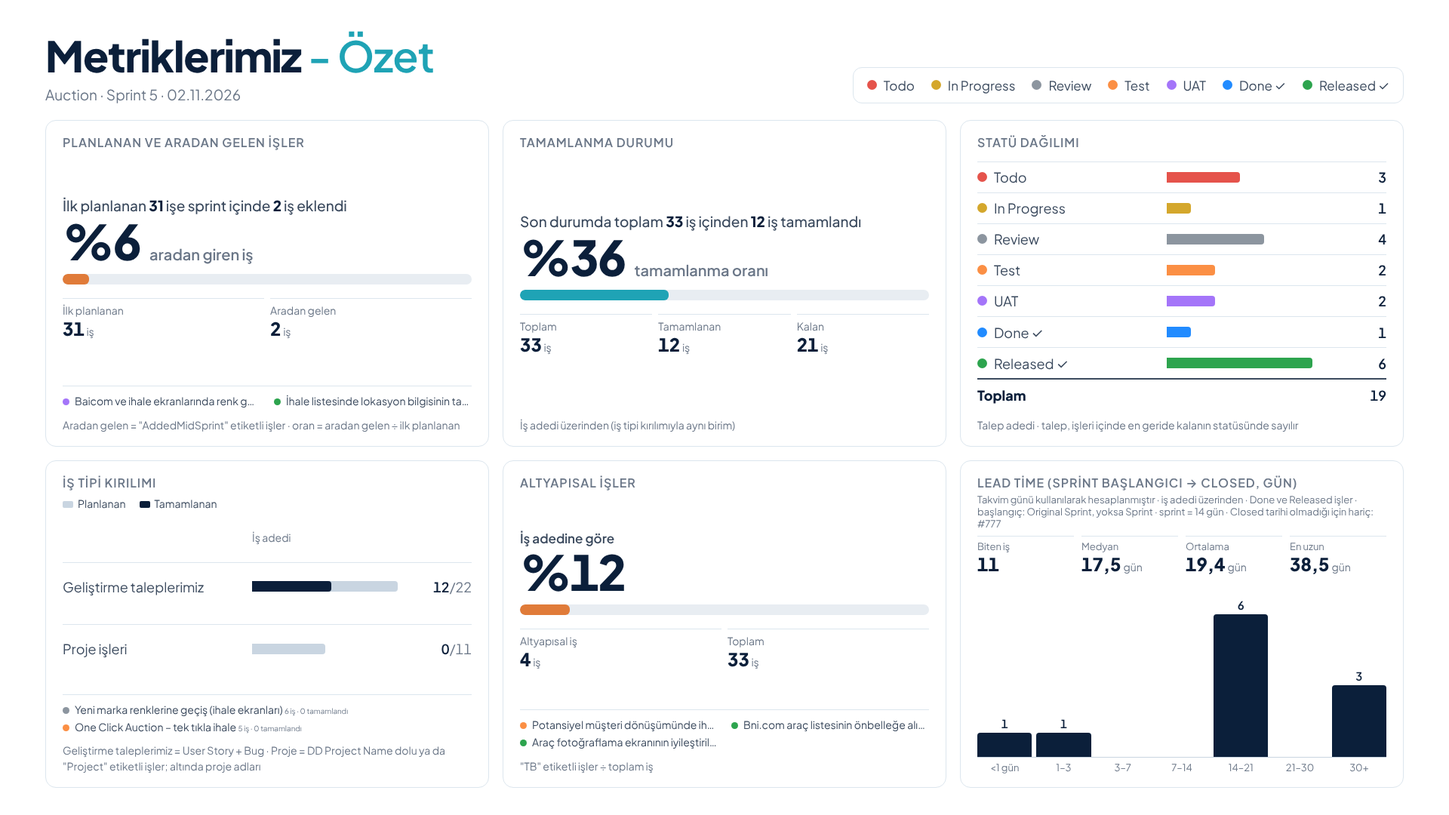
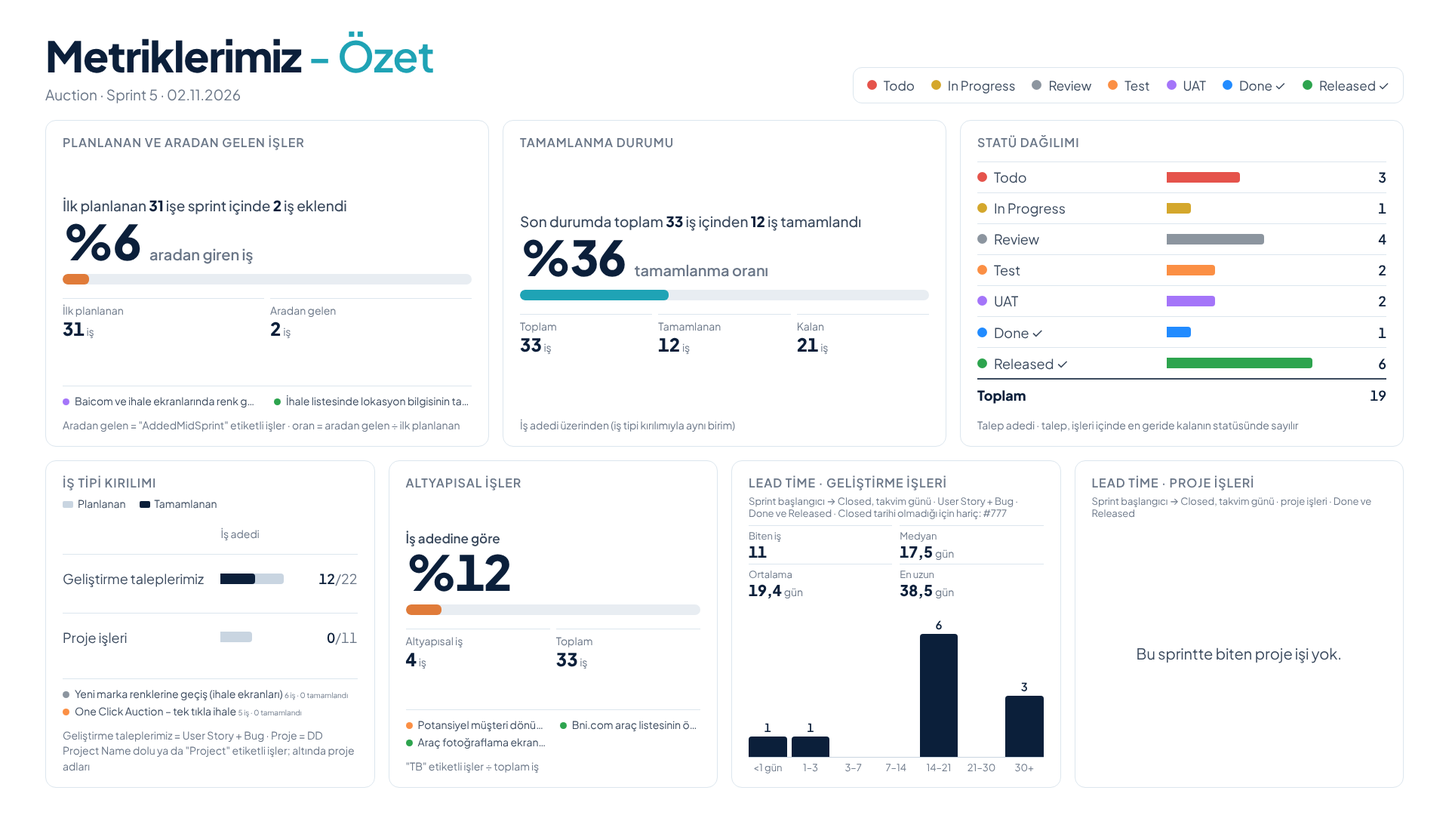
Lead time split: development vs project work; combined slides show development only
Claude-Session: https://claude.ai/code/session_014SYUQQBmb2NC56QaszpaqB

diff --git a/sunum/auction-sprint4-5-2026-11-02/auction-slaytlar.html b/sunum/auction-sprint4-5-2026-11-02/auction-slaytlar.html
@@ -58,6 +58,12 @@ h1 span { color:var(--accent); font-weight:600; }
 .story .clabel b { font-weight:800; color:var(--ink); }
 .names.one { columns:1; }
 .panel.span2 { grid-column:span 2; }
+.grid.g7 { grid-template-columns:repeat(12, minmax(0,1fr)); }
+.grid.g7 > .panel { grid-column:span 4; }
+.grid.g7 > .panel:nth-child(n+4) { grid-column:span 3; }
+.grid.g7 .lt .lstats { grid-template-columns:repeat(2,1fr); gap:4px 10px; }
+.grid.g7 .lt .lstats b { font-size:20px; }
+.grid.g7 .lt .lsub { margin-top:-4px; }
 .srows { display:flex; flex-direction:column; justify-content:space-evenly; flex:0 0 auto; gap:6px; }
 .srow { display:grid; grid-template-columns:150px 108px minmax(0,1fr); align-items:center; column-gap:12px;
   border-top:1px solid var(--rule); padding:8px 0; }
@@ -246,7 +252,7 @@ Released · Toplu Ekspertiz Sıralama Fonksiyonu Eklenmesi BE"><span class="dot"
     <div><h1>Metriklerimiz <span>- Özet</span></h1><div class="sub">Auction · Sprint 5 · 02.11.2026</div></div>
     <ul class="legend"><li><span class="dot" style="--c:#E5534B"></span>Todo</li><li><span class="dot" style="--c:#D4A72C"></span>In Progress</li><li><span class="dot" style="--c:#8C959F"></span>Review</li><li><span class="dot" style="--c:#FB8F44"></span>Test</li><li><span class="dot" style="--c:#A475F9"></span>UAT</li><li><span class="dot" style="--c:#218BFF"></span>Done ✓</li><li><span class="dot" style="--c:#2DA44E"></span>Released ✓</li></ul>
   </header>
-  <div class="grid">
+  <div class="grid g7">
     <div class="panel"><div class="ptitle">Planlanan ve aradan gelen işler</div><div class="comps r one">
 <div class="comp story">
   <div class="clabel">İlk planlanan <b>31</b> işe sprint içinde <b>2</b> iş eklendi</div>
@@ -268,7 +274,7 @@ Released · Toplu Ekspertiz Sıralama Fonksiyonu Eklenmesi BE"><span class="dot"
       <div class="pfoot">Talep adedi · talep, işleri içinde en geride kalanın statüsünde sayılır</div></div>
     <div class="panel"><div class="ptitle">İş tipi kırılımı</div>
       <div class="pkey"><span style="--k:var(--plan)">Planlanan</span><span style="--k:var(--ink)">Tamamlanan</span></div>
-      <div class="dual"><div class="dhead" style="grid-template-columns:minmax(0,1.25fr) minmax(0,1fr) 88px"><span></span><span>İş adedi</span><span></span></div><div class="drow" style="grid-template-columns:minmax(0,1.25fr) minmax(0,1fr) 88px"><div class="dl" title="Geliştirme taleplerimiz">Geliştirme taleplerimiz</div><div class="db" title="Geliştirme taleplerimiz · İş adedi: 22"><div class="tr" style="width:100.00%"></div><div class="fi" style="width:54.55%"></div></div><div class="dv">12<span>/22</span></div></div><div class="drow" style="grid-template-columns:minmax(0,1.25fr) minmax(0,1fr) 88px"><div class="dl" title="Proje işleri">Proje işleri</div><div class="db" title="Proje işleri · İş adedi: 11"><div class="tr" style="width:50.00%"></div><div class="fi" style="width:0.00%"></div></div><div class="dv">0<span>/11</span></div></div></div>
+      <div class="dual"><div class="dhead" style="grid-template-columns:minmax(0,2.4fr) minmax(0,1fr) 88px"><span></span><span>İş adedi</span><span></span></div><div class="drow" style="grid-template-columns:minmax(0,2.4fr) minmax(0,1fr) 88px"><div class="dl" title="Geliştirme taleplerimiz">Geliştirme taleplerimiz</div><div class="db" title="Geliştirme taleplerimiz · İş adedi: 22"><div class="tr" style="width:100.00%"></div><div class="fi" style="width:54.55%"></div></div><div class="dv">12<span>/22</span></div></div><div class="drow" style="grid-template-columns:minmax(0,2.4fr) minmax(0,1fr) 88px"><div class="dl" title="Proje işleri">Proje işleri</div><div class="db" title="Proje işleri · İş adedi: 11"><div class="tr" style="width:50.00%"></div><div class="fi" style="width:0.00%"></div></div><div class="dv">0<span>/11</span></div></div></div>
       <ul class="names one"><li><span class="dot" style="--c:#8C959F"></span>Yeni marka renklerine geçiş (ihale ekranları) <span class="kmeta">6 iş · 0 tamamlandı</span></li><li><span class="dot" style="--c:#FB8F44"></span>One Click Auction – tek tıkla ihale <span class="kmeta">5 iş · 0 tamamlandı</span></li></ul>
       <div class="pfoot">Geliştirme taleplerimiz = User Story + Bug · Proje = DD Project Name dolu ya da "Project" etiketli işler; altında proje adları</div></div>
     <div class="panel"><div class="ptitle">Altyapısal işler</div><div class="comps r one">
@@ -283,9 +289,12 @@ Released · Toplu Ekspertiz Sıralama Fonksiyonu Eklenmesi BE"><span class="dot"
 </div></div>
       <ul class="names"><li><span class="dot" style="--c:#FB8F44"></span>Potansiyel müşteri dönüşümünde ihale müşterisi kontrolü</li><li><span class="dot" style="--c:#2DA44E"></span>Araç fotoğraflama ekranının iyileştirilmesi</li><li><span class="dot" style="--c:#2DA44E"></span>Bni.com araç listesinin önbelleğe alınarak hızlandırılması</li></ul>
       <div class="pfoot">"TB" etiketli işler ÷ toplam iş</div></div>
-    <div class="panel"><div class="ptitle">Lead time (Sprint başlangıcı → Closed, gün)</div>
-      <div class="lsub">Takvim günü kullanılarak hesaplanmıştır · iş adedi üzerinden · Done ve Released işler · başlangıç: Original Sprint, yoksa Sprint · sprint = 14 gün · Closed tarihi olmadığı için hariç: #777</div>
+    <div class="panel lt"><div class="ptitle">Lead time · Geliştirme işleri</div>
+      <div class="lsub">Sprint başlangıcı → Closed, takvim günü · User Story + Bug · Done ve Released · Closed tarihi olmadığı için hariç: #777</div>
       <div class="lstats"><div><span>Biten iş</span><b>11</b></div><div><span>Medyan</span><b>17,5<small>gün</small></b></div><div><span>Ortalama</span><b>19,4<small>gün</small></b></div><div><span>En uzun</span><b>38,5<small>gün</small></b></div></div><div class="hist"><div class="hplot"><div class="hcol" title="&lt;1 gün gün: 1"><div class="hval">1</div><div class="hbar" style="height:13.67%;background:var(--ink)"></div></div><div class="hcol" title="1–3 gün: 1"><div class="hval">1</div><div class="hbar" style="height:13.67%;background:var(--ink)"></div></div><div class="hcol" title="3–7 gün: 0"><div class="hval"></div><div class="hbar" style="height:0.00%;background:var(--ink)"></div></div><div class="hcol" title="7–14 gün: 0"><div class="hval"></div><div class="hbar" style="height:0.00%;background:var(--ink)"></div></div><div class="hcol" title="14–21 gün: 6"><div class="hval">6</div><div class="hbar" style="height:82.00%;background:var(--ink)"></div></div><div class="hcol" title="21–30 gün: 0"><div class="hval"></div><div class="hbar" style="height:0.00%;background:var(--ink)"></div></div><div class="hcol" title="30+ gün: 3"><div class="hval">3</div><div class="hbar" style="height:41.00%;background:var(--ink)"></div></div></div><div class="hx"><div>&lt;1 gün</div><div>1–3</div><div>3–7</div><div>7–14</div><div>14–21</div><div>21–30</div><div>30+</div></div></div></div>
+    <div class="panel lt"><div class="ptitle">Lead time · Proje işleri</div>
+      <div class="lsub">Sprint başlangıcı → Closed, takvim günü · proje işleri · Done ve Released</div>
+      <div class="lstats"></div><div class="emptymsg">Bu sprintte biten proje işi yok.</div></div>
   </div>
 </section></div>
 
@@ -320,9 +329,9 @@ Released · Toplu Ekspertiz Sıralama Fonksiyonu Eklenmesi BE"><span class="dot"
       <div class="dual"><div class="dhead" style="grid-template-columns:minmax(0,1.25fr) minmax(0,1fr) 88px"><span></span><span>İş adedi</span><span></span></div><div class="drow" style="grid-template-columns:minmax(0,1.25fr) minmax(0,1fr) 88px"><div class="dl" title="Geliştirme taleplerimiz">Geliştirme taleplerimiz</div><div class="db" title="Geliştirme taleplerimiz · İş adedi: 47"><div class="tr" style="width:100.00%"></div><div class="fi" style="width:78.72%"></div></div><div class="dv">37<span>/47</span></div></div><div class="drow" style="grid-template-columns:minmax(0,1.25fr) minmax(0,1fr) 88px"><div class="dl" title="Proje işleri">Proje işleri</div><div class="db" title="Proje işleri · İş adedi: 11"><div class="tr" style="width:23.40%"></div><div class="fi" style="width:0.00%"></div></div><div class="dv">0<span>/11</span></div></div></div>
       <ul class="names one"><li><span class="dot" style="--c:#8C959F"></span>Yeni marka renklerine geçiş (ihale ekranları) <span class="kmeta">6 iş · 0 tamamlandı</span></li><li><span class="dot" style="--c:#FB8F44"></span>One Click Auction – tek tıkla ihale <span class="kmeta">5 iş · 0 tamamlandı</span></li></ul>
       <div class="pfoot">Geliştirme taleplerimiz = User Story + Bug · altında proje adları · 2 task bu kırılıma dahil değil</div></div>
-    <div class="panel span2"><div class="ptitle">Lead time (Sprint başlangıcı → Closed, gün)</div>
-      <div class="lsub">Takvim günü kullanılarak hesaplanmıştır · iş adedi üzerinden · Done ve Released işler · başlangıç: Original Sprint, yoksa Sprint · sprint = 14 gün · Closed tarihi olmadığı için hariç: #777, #555, #112</div>
-      <div class="lstats"><div><span>Biten iş</span><b>36</b></div><div><span>Medyan</span><b>17,3<small>gün</small></b></div><div><span>Ortalama</span><b>16,7<small>gün</small></b></div><div><span>En uzun</span><b>46,3<small>gün</small></b></div></div><div class="hist"><div class="hplot"><div class="hcol" title="&lt;1 gün gün: 1"><div class="hval">1</div><div class="hbar" style="height:8.20%;background:var(--ink)"></div></div><div class="hcol" title="1–3 gün: 1"><div class="hval">1</div><div class="hbar" style="height:8.20%;background:var(--ink)"></div></div><div class="hcol" title="3–7 gün: 10"><div class="hval">10</div><div class="hbar" style="height:82.00%;background:var(--ink)"></div></div><div class="hcol" title="7–14 gün: 5"><div class="hval">5</div><div class="hbar" style="height:41.00%;background:var(--ink)"></div></div><div class="hcol" title="14–21 gün: 8"><div class="hval">8</div><div class="hbar" style="height:65.60%;background:var(--ink)"></div></div><div class="hcol" title="21–30 gün: 4"><div class="hval">4</div><div class="hbar" style="height:32.80%;background:var(--ink)"></div></div><div class="hcol" title="30+ gün: 7"><div class="hval">7</div><div class="hbar" style="height:57.40%;background:var(--ink)"></div></div></div><div class="hx"><div>&lt;1 gün</div><div>1–3</div><div>3–7</div><div>7–14</div><div>14–21</div><div>21–30</div><div>30+</div></div></div></div>
+    <div class="panel span2"><div class="ptitle">Lead time · Geliştirme işleri (Sprint başlangıcı → Closed, gün)</div>
+      <div class="lsub">Takvim günü kullanılarak hesaplanmıştır · User Story + Bug · Done ve Released işler · başlangıç: Original Sprint, yoksa Sprint · sprint = 14 gün · Closed tarihi olmadığı için hariç: #777, #555, #112</div>
+      <div class="lstats"><div><span>Biten iş</span><b>34</b></div><div><span>Medyan</span><b>13,8<small>gün</small></b></div><div><span>Ortalama</span><b>15,2<small>gün</small></b></div><div><span>En uzun</span><b>39,2<small>gün</small></b></div></div><div class="hist"><div class="hplot"><div class="hcol" title="&lt;1 gün gün: 1"><div class="hval">1</div><div class="hbar" style="height:8.20%;background:var(--ink)"></div></div><div class="hcol" title="1–3 gün: 1"><div class="hval">1</div><div class="hbar" style="height:8.20%;background:var(--ink)"></div></div><div class="hcol" title="3–7 gün: 10"><div class="hval">10</div><div class="hbar" style="height:82.00%;background:var(--ink)"></div></div><div class="hcol" title="7–14 gün: 5"><div class="hval">5</div><div class="hbar" style="height:41.00%;background:var(--ink)"></div></div><div class="hcol" title="14–21 gün: 8"><div class="hval">8</div><div class="hbar" style="height:65.60%;background:var(--ink)"></div></div><div class="hcol" title="21–30 gün: 4"><div class="hval">4</div><div class="hbar" style="height:32.80%;background:var(--ink)"></div></div><div class="hcol" title="30+ gün: 5"><div class="hval">5</div><div class="hbar" style="height:41.00%;background:var(--ink)"></div></div></div><div class="hx"><div>&lt;1 gün</div><div>1–3</div><div>3–7</div><div>7–14</div><div>14–21</div><div>21–30</div><div>30+</div></div></div></div>
   </div>
 </section></div>
 
@@ -347,9 +356,9 @@ Released · Toplu Ekspertiz Sıralama Fonksiyonu Eklenmesi BE"><span class="dot"
       <div class="pfoot">Geliştirme taleplerimiz = User Story + Bug · altta proje adları (iki sprint toplamı)</div></div>
     <div class="panel"><div class="ptitle">Tamamlanan talepler</div><div class="dual"><div class="dhead" style="grid-template-columns:minmax(0,1.3fr) minmax(0,1fr) 88px minmax(0,1fr) 88px"><span></span><span>Sprint 4</span><span></span><span>Sprint 5</span><span></span></div><div class="drow" style="grid-template-columns:minmax(0,1.3fr) minmax(0,1fr) 88px minmax(0,1fr) 88px"><div class="dl" title="Xurrent talebi">Xurrent talebi</div><div class="db" title="Xurrent talebi · Sprint 4: 13"><div class="fi" style="width:100.00%;background:var(--ink)"></div></div><div class="dv">13</div><div class="db" title="Xurrent talebi · Sprint 5: 8"><div class="fi" style="width:100.00%;background:var(--ink)"></div></div><div class="dv">8</div></div><div class="drow" style="grid-template-columns:minmax(0,1.3fr) minmax(0,1fr) 88px minmax(0,1fr) 88px"><div class="dl" title="Ek talep">Ek talep</div><div class="db" title="Ek talep · Sprint 4: 9"><div class="fi" style="width:69.23%;background:var(--ink)"></div></div><div class="dv">9</div><div class="db" title="Ek talep · Sprint 5: 2"><div class="fi" style="width:25.00%;background:var(--ink)"></div></div><div class="dv">2</div></div><div class="drow total" style="grid-template-columns:minmax(0,1.3fr) minmax(0,1fr) 88px minmax(0,1fr) 88px"><div class="dl">Toplam</div><div></div><div class="dv">22</div><div></div><div class="dv">10</div></div></div>
       <div class="pfoot">Talep adedi · Xurrent talebi tüm işleri bitince, son işin bittiği sprintte sayılır · ek talep = Xurrent no'suz iş</div></div>
-    <div class="panel"><div class="ptitle">Lead time (Sprint başlangıcı → Closed, gün)</div>
-      <div class="lsub">Takvim günü · iş adedi · Done ve Released işler, bittiği sprinte göre</div>
-      <div class="lsrows"><div class="lsrow"><span class="sname"><i style="background:#9AA9BD"></i>Sprint 4</span><span>Biten iş<b>26</b></span><span>Medyan<b>10,3</b><small>gün</small></span><span>Ortalama<b>15,5</b><small>gün</small></span></div><div class="lsrow"><span class="sname"><i style="background:var(--ink)"></i>Sprint 5</span><span>Biten iş<b>10</b></span><span>Medyan<b>17,5</b><small>gün</small></span><span>Ortalama<b>20</b><small>gün</small></span></div></div><div class="hist"><div class="hplot ghplot"><div class="gcol"><div class="gbar" title="&lt;1 gün gün: 1" style="height:8.20%;background:#9AA9BD"><span>1</span></div><div class="gbar" title="&lt;1 gün gün: 0" style="height:0.00%;background:var(--ink)"><span></span></div></div><div class="gcol"><div class="gbar" title="1–3 gün: 0" style="height:0.00%;background:#9AA9BD"><span></span></div><div class="gbar" title="1–3 gün: 1" style="height:8.20%;background:var(--ink)"><span>1</span></div></div><div class="gcol"><div class="gbar" title="3–7 gün: 10" style="height:82.00%;background:#9AA9BD"><span>10</span></div><div class="gbar" title="3–7 gün: 0" style="height:0.00%;background:var(--ink)"><span></span></div></div><div class="gcol"><div class="gbar" title="7–14 gün: 5" style="height:41.00%;background:#9AA9BD"><span>5</span></div><div class="gbar" title="7–14 gün: 0" style="height:0.00%;background:var(--ink)"><span></span></div></div><div class="gcol"><div class="gbar" title="14–21 gün: 2" style="height:16.40%;background:#9AA9BD"><span>2</span></div><div class="gbar" title="14–21 gün: 6" style="height:49.20%;background:var(--ink)"><span>6</span></div></div><div class="gcol"><div class="gbar" title="21–30 gün: 2" style="height:16.40%;background:#9AA9BD"><span>2</span></div><div class="gbar" title="21–30 gün: 2" style="height:16.40%;background:var(--ink)"><span>2</span></div></div><div class="gcol"><div class="gbar" title="30+ gün: 6" style="height:49.20%;background:#9AA9BD"><span>6</span></div><div class="gbar" title="30+ gün: 1" style="height:8.20%;background:var(--ink)"><span>1</span></div></div></div><div class="hx"><div>&lt;1 gün</div><div>1–3</div><div>3–7</div><div>7–14</div><div>14–21</div><div>21–30</div><div>30+</div></div></div></div>
+    <div class="panel"><div class="ptitle">Lead time · Geliştirme işleri (gün)</div>
+      <div class="lsub">Sprint başlangıcı → Closed · takvim günü · User Story + Bug · Done ve Released işler, bittiği sprinte göre</div>
+      <div class="lsrows"><div class="lsrow"><span class="sname"><i style="background:#9AA9BD"></i>Sprint 4</span><span>Biten iş<b>24</b></span><span>Medyan<b>9,4</b><small>gün</small></span><span>Ortalama<b>13,2</b><small>gün</small></span></div><div class="lsrow"><span class="sname"><i style="background:var(--ink)"></i>Sprint 5</span><span>Biten iş<b>10</b></span><span>Medyan<b>17,5</b><small>gün</small></span><span>Ortalama<b>20</b><small>gün</small></span></div></div><div class="hist"><div class="hplot ghplot"><div class="gcol"><div class="gbar" title="&lt;1 gün gün: 1" style="height:8.20%;background:#9AA9BD"><span>1</span></div><div class="gbar" title="&lt;1 gün gün: 0" style="height:0.00%;background:var(--ink)"><span></span></div></div><div class="gcol"><div class="gbar" title="1–3 gün: 0" style="height:0.00%;background:#9AA9BD"><span></span></div><div class="gbar" title="1–3 gün: 1" style="height:8.20%;background:var(--ink)"><span>1</span></div></div><div class="gcol"><div class="gbar" title="3–7 gün: 10" style="height:82.00%;background:#9AA9BD"><span>10</span></div><div class="gbar" title="3–7 gün: 0" style="height:0.00%;background:var(--ink)"><span></span></div></div><div class="gcol"><div class="gbar" title="7–14 gün: 5" style="height:41.00%;background:#9AA9BD"><span>5</span></div><div class="gbar" title="7–14 gün: 0" style="height:0.00%;background:var(--ink)"><span></span></div></div><div class="gcol"><div class="gbar" title="14–21 gün: 2" style="height:16.40%;background:#9AA9BD"><span>2</span></div><div class="gbar" title="14–21 gün: 6" style="height:49.20%;background:var(--ink)"><span>6</span></div></div><div class="gcol"><div class="gbar" title="21–30 gün: 2" style="height:16.40%;background:#9AA9BD"><span>2</span></div><div class="gbar" title="21–30 gün: 2" style="height:16.40%;background:var(--ink)"><span>2</span></div></div><div class="gcol"><div class="gbar" title="30+ gün: 4" style="height:32.80%;background:#9AA9BD"><span>4</span></div><div class="gbar" title="30+ gün: 1" style="height:8.20%;background:var(--ink)"><span>1</span></div></div></div><div class="hx"><div>&lt;1 gün</div><div>1–3</div><div>3–7</div><div>7–14</div><div>14–21</div><div>21–30</div><div>30+</div></div></div></div>
   </div>
 </section></div>
 
@@ -562,7 +571,7 @@ Released · DATA - Register Süreçleri Funnel Event Entegrasyonu FE - 4h"><span
   <header>
     <div><h1>Hesaplama <span>Varsayımları</span></h1><div class="sub">Auction · Sprint 5 · 02.11.2026 · bu sunumdaki metrikler nasıl hesaplandı?</div></div>
   </header>
-  <div class="agrid"><div class="acard"><div class="atitle">Kapsam</div><ul><li>Sprint: Sprint 5 · 33 iş değerlendirildi.</li><li>Hariç tutulanlar: statüsü <b>Backlog</b> olan ve <b>RetroAction</b> etiketli işler — bu sprintte: #551.</li><li>Tüm slayt ve metrikler bu kapsam üzerinden hesaplanır.</li></ul></div><div class="acard"><div class="atitle">Sayım birimleri</div><ul><li><b>Xurrent talebi</b>: aynı Xurrent Talep No'ya sahip GitHub işleri tek talep sayılır (BE/FE/App/Web parçaları); talep, tüm işleri bitince tamamlanmış sayılır.</li><li><b>Ek talep</b>: Xurrent Talep No'su boş GitHub işi; her biri ayrı sayılır.</li><li><b>İş</b>: panodaki her GitHub issue'su. Tamamlanma oranı, aradan gelen iş, altyapısal işler ve iş tipi kırılımı bu birimle hesaplanır; bu yüzden talep sayısından büyük olabilir.</li><li>Statü dağılımı yalnız Xurrent taleplerini sayar; talep, işleri içinde <b>en geride kalanın</b> statüsünde sayılır.</li></ul></div><div class="acard"><div class="atitle">Statüler ve kolonlar</div><ul><li>Tamamlandı sayılan statüler: <b>Done, Released</b> (lejantta ✓).</li><li>Kanban kolonları — Yapılacak: Todo · Geliştirmede: In Progress, Review · Test: Test, UAT · Tamamlandı: Done · Canlıda: Released.</li><li>Bir talebin rengi/kolonu, işleri içinde en geride kalanın statüsüdür.</li></ul></div><div class="acard"><div class="atitle">İş tipi</div><ul><li>Başlıkta [BUG] → <b>Bug</b>; DD Project Name dolu → <b>Proje işi</b>; toplantı, analiz/inceleme, deployment, kurulum, operasyonel işler → <b>Task</b>; diğerleri → <b>User Story</b>.</li><li>Metrik slaytlarında <b>Geliştirme taleplerimiz</b> = User Story + Bug; <b>Proje işleri</b> ayrı gösterilir ve altında listelenir; Task'lar bu kırılıma dahil edilmez.</li><li>GitHub'ta issue type sütunu dışa aktarılırsa doğrudan o kullanılır.</li></ul></div><div class="acard"><div class="atitle">Etiket bazlı metrikler</div><ul><li>Aradan giren iş oranı = "AddedMidSprint" etiketli işler ÷ etiketsiz (ilk planlanan) işler.</li><li>Altyapısal işler payı = "TB" etiketli işler ÷ toplam iş.</li><li>Etiket karşılaştırmasında büyük/küçük harf, boşluk, - ve _ yok sayılır.</li></ul></div><div class="acard"><div class="atitle">Lead time</div><ul><li>Yalnız <b>Done ve Released</b> işler; süre <b>takvim günü</b> olarak sprint başlangıcından Closed tarihine kadar ölçülür.</li><li>Başlangıç: Original Sprint doluysa o sprintin, değilse işin sprintinin başlangıcı. Tanımlı başlangıç: Sprint 4=2026-10-05; diğer sprintler 14 günlük sprint varsayımıyla bulunur.</li><li>Closed tarihi boş olduğu için hariç: #777.</li></ul></div><div class="acard"><div class="atitle">Canlıya çıkış</div><ul><li>Release bekleyen = statü Done + Ready For Release / WaitingRelease etiketi.</li><li>Canlıya alınan = kanbandaki "Canlıda" kolonundaki tüm işler (etiketten bağımsız).</li><li>Talebin yalnız bir kısmı canlıdaysa o işler GitHub başlığıyla ve ↳ notuyla listelenir.</li></ul></div><div class="acard"><div class="atitle">Sprint karşılaştırması</div><ul><li>Sprint 4 &amp; Sprint 5 birlikte verildiği için ana slaytlar son sprint (Sprint 5) için, karşılaştırma slaytı tüm sprintler için üretildi; bu slaytta altyapısal işler yer almaz.</li><li>Bir iş, ilk sprintinden (Original Sprint, yoksa Sprint) bittiği sprinte kadar her sprintin kapsamındadır; bittiği sprint Closed tarihinin düştüğü sprinttir.</li><li>Aradan gelen iş, etiketin eklendiği sprintte (ilk sprint ile oluşturulma tarihinin sprinti, hangisi sonraysa) sayılır.</li></ul></div><div class="acard"><div class="atitle">Diğer</div><ul><li>Original Estimate boş olan 4 iş 0 sayılır (yalnız Takıma özel slaytı etkiler).</li><li>Önceki sprintten aktarılan: Original Sprint, işin sprintinden farklıysa (↪ Sprint N).</li><li>Madde adları, GitHub başlıklarından iş birimi diline çevrilmiş tema adlarıdır; teknik ayrıntı için Xurrent / GitHub numarasına bakılabilir.</li></ul></div></div>
+  <div class="agrid"><div class="acard"><div class="atitle">Kapsam</div><ul><li>Sprint: Sprint 5 · 33 iş değerlendirildi.</li><li>Hariç tutulanlar: statüsü <b>Backlog</b> olan ve <b>RetroAction</b> etiketli işler — bu sprintte: #551.</li><li>Tüm slayt ve metrikler bu kapsam üzerinden hesaplanır.</li></ul></div><div class="acard"><div class="atitle">Sayım birimleri</div><ul><li><b>Xurrent talebi</b>: aynı Xurrent Talep No'ya sahip GitHub işleri tek talep sayılır (BE/FE/App/Web parçaları); talep, tüm işleri bitince tamamlanmış sayılır.</li><li><b>Ek talep</b>: Xurrent Talep No'su boş GitHub işi; her biri ayrı sayılır.</li><li><b>İş</b>: panodaki her GitHub issue'su. Tamamlanma oranı, aradan gelen iş, altyapısal işler ve iş tipi kırılımı bu birimle hesaplanır; bu yüzden talep sayısından büyük olabilir.</li><li>Statü dağılımı yalnız Xurrent taleplerini sayar; talep, işleri içinde <b>en geride kalanın</b> statüsünde sayılır.</li></ul></div><div class="acard"><div class="atitle">Statüler ve kolonlar</div><ul><li>Tamamlandı sayılan statüler: <b>Done, Released</b> (lejantta ✓).</li><li>Kanban kolonları — Yapılacak: Todo · Geliştirmede: In Progress, Review · Test: Test, UAT · Tamamlandı: Done · Canlıda: Released.</li><li>Bir talebin rengi/kolonu, işleri içinde en geride kalanın statüsüdür.</li></ul></div><div class="acard"><div class="atitle">İş tipi</div><ul><li>Başlıkta [BUG] → <b>Bug</b>; DD Project Name dolu → <b>Proje işi</b>; toplantı, analiz/inceleme, deployment, kurulum, operasyonel işler → <b>Task</b>; diğerleri → <b>User Story</b>.</li><li>Metrik slaytlarında <b>Geliştirme taleplerimiz</b> = User Story + Bug; <b>Proje işleri</b> ayrı gösterilir ve altında listelenir; Task'lar bu kırılıma dahil edilmez.</li><li>GitHub'ta issue type sütunu dışa aktarılırsa doğrudan o kullanılır.</li></ul></div><div class="acard"><div class="atitle">Etiket bazlı metrikler</div><ul><li>Aradan giren iş oranı = "AddedMidSprint" etiketli işler ÷ etiketsiz (ilk planlanan) işler.</li><li>Altyapısal işler payı = "TB" etiketli işler ÷ toplam iş.</li><li>Etiket karşılaştırmasında büyük/küçük harf, boşluk, - ve _ yok sayılır.</li></ul></div><div class="acard"><div class="atitle">Lead time</div><ul><li>Özet slaytında iki ayrı kutu: <b>geliştirme işleri</b> (User Story + Bug) ve <b>proje işleri</b>; iki sprinti birleştiren slaytlarda yalnız geliştirme işleri. Task'lar dahil değil.</li><li>Yalnız <b>Done ve Released</b> işler; süre <b>takvim günü</b> olarak sprint başlangıcından Closed tarihine kadar ölçülür.</li><li>Başlangıç: Original Sprint doluysa o sprintin, değilse işin sprintinin başlangıcı. Tanımlı başlangıç: Sprint 4=2026-10-05; diğer sprintler 14 günlük sprint varsayımıyla bulunur.</li><li>Closed tarihi boş olduğu için hariç: #777.</li></ul></div><div class="acard"><div class="atitle">Canlıya çıkış</div><ul><li>Release bekleyen = statü Done + Ready For Release / WaitingRelease etiketi.</li><li>Canlıya alınan = kanbandaki "Canlıda" kolonundaki tüm işler (etiketten bağımsız).</li><li>Talebin yalnız bir kısmı canlıdaysa o işler GitHub başlığıyla ve ↳ notuyla listelenir.</li></ul></div><div class="acard"><div class="atitle">Sprint karşılaştırması</div><ul><li>Sprint 4 &amp; Sprint 5 birlikte verildiği için ana slaytlar son sprint (Sprint 5) için, karşılaştırma slaytı tüm sprintler için üretildi; bu slaytta altyapısal işler yer almaz.</li><li>Bir iş, ilk sprintinden (Original Sprint, yoksa Sprint) bittiği sprinte kadar her sprintin kapsamındadır; bittiği sprint Closed tarihinin düştüğü sprinttir.</li><li>Aradan gelen iş, etiketin eklendiği sprintte (ilk sprint ile oluşturulma tarihinin sprinti, hangisi sonraysa) sayılır.</li></ul></div><div class="acard"><div class="atitle">Diğer</div><ul><li>Original Estimate boş olan 4 iş 0 sayılır (yalnız Takıma özel slaytı etkiler).</li><li>Önceki sprintten aktarılan: Original Sprint, işin sprintinden farklıysa (↪ Sprint N).</li><li>Madde adları, GitHub başlıklarından iş birimi diline çevrilmiş tema adlarıdır; teknik ayrıntı için Xurrent / GitHub numarasına bakılabilir.</li></ul></div></div>
 </section></div>
 
 </div>

diff --git a/.claude/skills/gelistirmeler-raporu/scripts/build_slides.py b/.claude/skills/gelistirmeler-raporu/scripts/build_slides.py
@@ -34,6 +34,8 @@ from build_report import (COUNT_FIELD, DEFAULT_DONE, NO_STATUS_COLOR,  # noqa: E
 TYPES = ["User Story", "Proje işi", "Bug", "Task"]
 # Metrik slaytlarındaki iş tipi kırılımı: User Story + Bug birlikte, Proje ayrı; Task gösterilmez
 TYPE_BUCKETS = [("Geliştirme taleplerimiz", {"User Story", "Bug"}), ("Proje işleri", {"Proje işi"})]
+DEV_KINDS = TYPE_BUCKETS[0][1]
+PROJ_KINDS = TYPE_BUCKETS[1][1]
 CAT_CLASS = {"User Story": "story", "Proje işi": "proj", "Bug": "bug", "Task": "task"}
 # Düzenli ifade; başlığın küçük harfli halinde aranır
 DEFAULT_TASK_KEYWORDS = [r"işlemler(i)?\b", "toplantı", "takvim", "kurulum", "incele", "migration",
@@ -495,7 +497,8 @@ def sprint_compare(a, br_rows, all_groups, snos, start_of, hexes, order, project
             "mid": [r for r in sc_ if r["br_mid"] == n],
             "carry": [r for r in sc_ if r["br_done"] != n and max(r["br_scope"]) > n],
             "open": [r for r in sc_ if r["br_done"] != n and max(r["br_scope"]) == n],
-            "lead": [r["lead"] for r in sc_ if r["br_done"] == n and r["lead"] is not None]})
+            "lead": [r["lead"] for r in sc_ if r["br_done"] == n and r["lead"] is not None
+                     and r["kind"] in DEV_KINDS]})
 
     comp = sprint_rows_block([{"label": s["label"], "num": len(s["done"]), "den": len(s["scope"]),
                                "text": f'Toplam <b>{len(s["scope"])}</b> iş içinden <b>{len(s["done"])}</b> iş tamamlandı'}
@@ -586,8 +589,8 @@ def sprint_compare(a, br_rows, all_groups, snos, start_of, hexes, order, project
       <div class="pfoot">Geliştirme taleplerimiz = User Story + Bug · altta proje adları (iki sprint toplamı)</div></div>
     <div class="panel"><div class="ptitle">Tamamlanan talepler</div>{reqs}
       <div class="pfoot">Talep adedi · Xurrent talebi tüm işleri bitince, son işin bittiği sprintte sayılır · ek talep = Xurrent no'suz iş</div></div>
-    <div class="panel"><div class="ptitle">Lead time (Sprint başlangıcı → Closed, gün)</div>
-      <div class="lsub">Takvim günü · iş adedi · Done ve Released işler, bittiği sprinte göre</div>
+    <div class="panel"><div class="ptitle">Lead time · Geliştirme işleri (gün)</div>
+      <div class="lsub">Sprint başlangıcı → Closed · takvim günü · User Story + Bug · Done ve Released işler, bittiği sprinte göre</div>
       <div class="lsrows">{stats}</div>{hist}</div>
   </div>
 </section></div>
@@ -784,7 +787,7 @@ def build(a) -> None:
            + ratio_block(f"{est_label}'a göre", sum(r["est"] for r in tb), sum(r["est"] for r in rows),
                          "Altyapısal iş", "Toplam", unit))
 
-    def lead_block(rs):
+    def lead_block(rs, empty="Sprint başlangıç tarihi / Closed verisi yok."):
         closed = [r for r in rs if r["lead"] is not None]
         bins = []
         for lo, hi, label in LEAD_BINS:
@@ -805,9 +808,13 @@ def build(a) -> None:
                      f'<div><span>En uzun</span><b>{fmt(round(max(leads), 1))}<small>gün</small></b></div>')
             hg = histogram(bins, "c", "var(--ink)")
         else:
-            stats, hg = "", '<div class="emptymsg">Sprint başlangıç tarihi / Closed verisi yok.</div>'
+            stats, hg = "", f'<div class="emptymsg">{esc(empty if a.sprint_start else "Sprint başlangıç tarihi verilmedi.")}</div>'
         return stats, hg, missing, leads, no_close
     lead_stats, hist, lead_missing, leads, no_close = lead_block(rows)
+    dl_stats, dl_hist, dl_missing, _, _ = lead_block([r for r in rows if r["kind"] in DEV_KINDS],
+                                                     "Bu sprintte biten geliştirme işi yok.")
+    pl_stats, pl_hist, pl_missing, _, _ = lead_block([r for r in rows if r["kind"] in PROJ_KINDS],
+                                                     "Bu sprintte biten proje işi yok.")
 
     # ---- Özet slaytı: yalnız adet bazlı, sadeleştirilmiş
     sum_comp = story_block(f"Son durumda toplam <b>{fmt(len(rows))}</b> iş içinden <b>{fmt(all_done)}</b> iş tamamlandı",
@@ -825,7 +832,7 @@ def build(a) -> None:
         sum_status_total = {"label": "Toplam", "x": len(xg)}
     sum_status_rows = [r for r in sum_status_rows if any(r[c["key"]] for c in sum_status_cols)]
     sum_status = multi_table(sum_status_rows, sum_status_cols, total=sum_status_total)
-    sum_types = multi_table(type_rows, [{"key": "c", "done": "cd", "head": "İş adedi"}])
+    sum_types = multi_table(type_rows, [{"key": "c", "done": "cd", "head": "İş adedi"}], label_fr=2.4)
     sum_mid = story_block(f"İlk planlanan <b>{fmt(len(plan))}</b> işe sprint içinde <b>{fmt(len(mid))}</b> iş eklendi",
                           len(mid), len(plan), "aradan giren iş",
                           [("İlk planlanan", len(plan), "iş"), ("Aradan gelen", len(mid), "iş")], warm=True)
@@ -937,7 +944,9 @@ def build(a) -> None:
                                     "etiketsiz (ilk planlanan) işler.",
                                     f"Altyapısal işler payı = \"{esc(a.tb_label[0])}\" etiketli işler ÷ toplam iş.",
                                     "Etiket karşılaştırmasında büyük/küçük harf, boşluk, - ve _ yok sayılır."]),
-        ("Lead time", ["Yalnız <b>Done ve Released</b> işler; süre <b>takvim günü</b> olarak sprint "
+        ("Lead time", ["Özet slaytında iki ayrı kutu: <b>geliştirme işleri</b> (User Story + Bug) ve "
+                       "<b>proje işleri</b>; iki sprinti birleştiren slaytlarda yalnız geliştirme işleri. Task'lar dahil değil.",
+                       "Yalnız <b>Done ve Released</b> işler; süre <b>takvim günü</b> olarak sprint "
                        "başlangıcından Closed tarihine kadar ölçülür.",
                        f"Başlangıç: Original Sprint doluysa o sprintin, değilse işin sprintinin başlangıcı. "
                        f"Tanımlı başlangıç: {esc(starts)}; diğer sprintler {a.sprint_days} günlük sprint varsayımıyla bulunur.",
@@ -1009,7 +1018,7 @@ def build(a) -> None:
         b_ntask = sum(1 for r in br_rows if r["kind"] == "Task")
         b_types_note = ("Geliştirme taleplerimiz = User Story + Bug · altında proje adları"
                         + (f" · {b_ntask} task bu kırılıma dahil değil" if b_ntask else ""))
-        b_lstats, b_hist, b_missing, _, _ = lead_block(br_rows)
+        b_lstats, b_hist, b_missing, _, _ = lead_block([r for r in br_rows if r["kind"] in DEV_KINDS])
         b_ready = [r for r in br_rows if sk(r["status"]) in ready_st and has_label(r, a.ready_label)]
         b_ready_g = subset_entries({key_of(r) for r in b_ready}, all_groups)
         b_rel = [r for r in br_rows if sk(r["status"]) in live_st]
@@ -1053,8 +1062,8 @@ def build(a) -> None:
       {multi_table(b_types_rows, [{"key": "c", "done": "cd", "head": "İş adedi"}])}
       <ul class="names one">{project_list(br_rows, "Bu sprintlerde proje işi yok")}</ul>
       <div class="pfoot">{b_types_note}</div></div>
-    <div class="panel span2"><div class="ptitle">Lead time (Sprint başlangıcı → Closed, gün)</div>
-      <div class="lsub">Takvim günü kullanılarak hesaplanmıştır · iş adedi üzerinden · Done ve Released işler · başlangıç: Original Sprint, yoksa Sprint · sprint = {a.sprint_days} gün{b_missing}</div>
+    <div class="panel span2"><div class="ptitle">Lead time · Geliştirme işleri (Sprint başlangıcı → Closed, gün)</div>
+      <div class="lsub">Takvim günü kullanılarak hesaplanmıştır · User Story + Bug · Done ve Released işler · başlangıç: Original Sprint, yoksa Sprint · sprint = {a.sprint_days} gün{b_missing}</div>
       <div class="lstats">{b_lstats}</div>{b_hist}</div>
   </div>
 </section></div>
@@ -1075,7 +1084,8 @@ def build(a) -> None:
                                          {"key": "e", "done": "ed", "head": est_label}], 1.6),
         assumptions=assumptions,
         sum_comp=sum_comp, sum_status=sum_status, sum_status_note=sum_status_note, sum_types=sum_types,
-        sum_mid=sum_mid, sum_tb=sum_tb, proj_list=proj_list, types_note=types_note, br_slide=br_slide, br_focus=br_focus, br_sum=br_sum, br_release=br_release,
+        sum_mid=sum_mid, sum_tb=sum_tb, dl_stats=dl_stats, dl_hist=dl_hist, dl_missing=dl_missing,
+        pl_stats=pl_stats, pl_hist=pl_hist, pl_missing=pl_missing, proj_list=proj_list, types_note=types_note, br_slide=br_slide, br_focus=br_focus, br_sum=br_sum, br_release=br_release,
         ready=ready_html, ready_note=ready_note, n_ready=len(ready_groups),
         released=released_html, n_released=len(rel_groups),
         rel_cols=2 if len(rel_groups) > 12 else 1,
@@ -1160,6 +1170,12 @@ h1 span {{ color:var(--accent); font-weight:600; }}
 .story .clabel b {{ font-weight:800; color:var(--ink); }}
 .names.one {{ columns:1; }}
 .panel.span2 {{ grid-column:span 2; }}
+.grid.g7 {{ grid-template-columns:repeat(12, minmax(0,1fr)); }}
+.grid.g7 > .panel {{ grid-column:span 4; }}
+.grid.g7 > .panel:nth-child(n+4) {{ grid-column:span 3; }}
+.grid.g7 .lt .lstats {{ grid-template-columns:repeat(2,1fr); gap:4px 10px; }}
+.grid.g7 .lt .lstats b {{ font-size:20px; }}
+.grid.g7 .lt .lsub {{ margin-top:-4px; }}
 .srows {{ display:flex; flex-direction:column; justify-content:space-evenly; flex:0 0 auto; gap:6px; }}
 .srow {{ display:grid; grid-template-columns:150px 108px minmax(0,1fr); align-items:center; column-gap:12px;
   border-top:1px solid var(--rule); padding:8px 0; }}
@@ -1323,7 +1339,7 @@ h1 span {{ color:var(--accent); font-weight:600; }}
     <div><h1>Metriklerimiz <span>- Özet</span></h1><div class="sub">{subtitle}</div></div>
     <ul class="legend">{legend}</ul>
   </header>
-  <div class="grid">
+  <div class="grid g7">
     <div class="panel"><div class="ptitle">Planlanan ve aradan gelen işler</div><div class="comps r one">{sum_mid}</div>
       <ul class="names">{mid_list}</ul>
       <div class="pfoot">Aradan gelen = "{mid_label}" etiketli işler · oran = aradan gelen ÷ ilk planlanan</div></div>
@@ -1339,9 +1355,12 @@ h1 span {{ color:var(--accent); font-weight:600; }}
     <div class="panel"><div class="ptitle">Altyapısal işler</div><div class="comps r one">{sum_tb}</div>
       <ul class="names">{tb_list}</ul>
       <div class="pfoot">"{tb_label}" etiketli işler ÷ toplam iş</div></div>
-    <div class="panel"><div class="ptitle">Lead time (Sprint başlangıcı → Closed, gün)</div>
-      <div class="lsub">Takvim günü kullanılarak hesaplanmıştır · iş adedi üzerinden · Done ve Released işler · başlangıç: Original Sprint, yoksa Sprint · sprint = {sprint_days} gün{lead_missing}</div>
-      <div class="lstats">{lead_stats}</div>{hist}</div>
+    <div class="panel lt"><div class="ptitle">Lead time · Geliştirme işleri</div>
+      <div class="lsub">Sprint başlangıcı → Closed, takvim günü · User Story + Bug · Done ve Released{dl_missing}</div>
+      <div class="lstats">{dl_stats}</div>{dl_hist}</div>
+    <div class="panel lt"><div class="ptitle">Lead time · Proje işleri</div>
+      <div class="lsub">Sprint başlangıcı → Closed, takvim günü · proje işleri · Done ve Released{pl_missing}</div>
+      <div class="lstats">{pl_stats}</div>{pl_hist}</div>
   </div>
 </section></div>
 

diff --git a/.claude/skills/gelistirmeler-raporu/SKILL.md b/.claude/skills/gelistirmeler-raporu/SKILL.md
@@ -133,7 +133,10 @@ UAT **mor** · Done mavi · Released yeşil (tüm slaytlarda aynı).
      Altında proje işlerinin tema adları listelenir (talep adından projeyi özetleyen iş birimi dili —
      tema adları `temalar.json`'da Claude tarafından yazılır).
    - **Altyapısal işler** (eski adıyla teknik borç): `TB` etiketli ÷ toplam iş; altında tema adları.
-   - Lead time: "Takvim günü kullanılarak hesaplanmıştır" notuyla, iş adedi üzerinden.
+   - Lead time **iki ayrı kutu**: **Geliştirme işleri** (User Story + Bug) ve **Proje işleri**;
+     takvim günü, iş adedi. (Satır 2 dört kutu: iş tipi, altyapısal işler, iki lead time.)
+     Task'lar iki kutuya da girmez. İki sprinti birleştiren slaytlarda (toplam özet ve sprint
+     karşılaştırması) lead time **yalnız geliştirme işleri** için gösterilir.
 **Çok sprintli veri (ör. iki sprint birlikte export edildiğinde) slayt sırası:**
 1. Sprint'te Odaklandığımız İşler (son sprint) → 2. **Sprint'te Odaklandığımız İşler - Sprint N & M**
    (tüm sprintlerin işleri tek kanbanda, bugünkü statüleriyle) → 3. Metriklerimiz - Özet (son sprint) →
